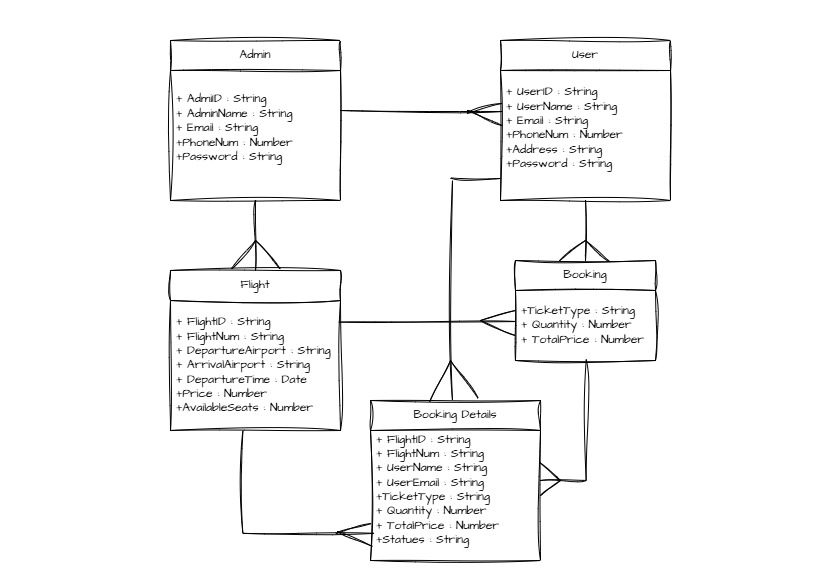
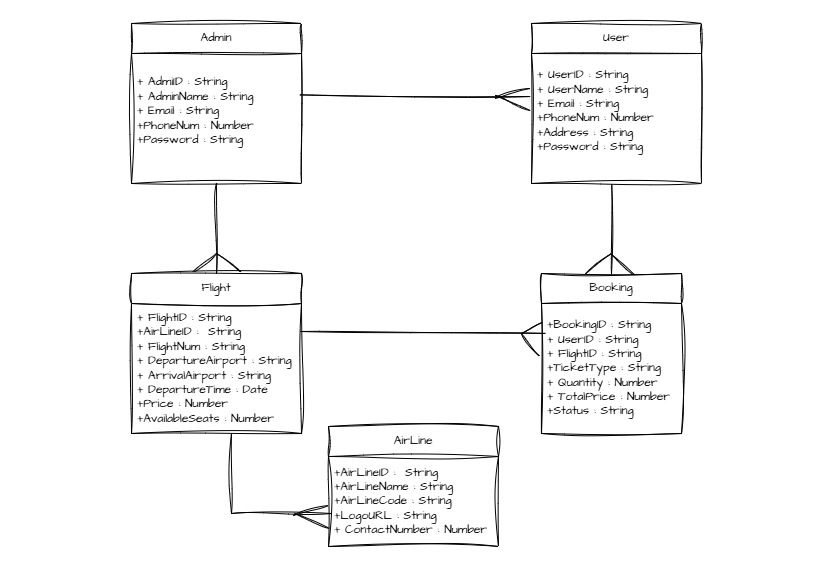
Update ER and README

Changed region(s): [[0.1511, 0.0309, 0.8464, 0.988], [0.8464, 0.0617, 0.8767, 0.0926], [0.5441, 0.3705, 0.5744, 0.4014]]

diff --git a/README.md b/README.md
@@ -70,4 +70,4 @@
 ### ***Credits***
 
 ##### - [Lucidchart](https://lucid.app/) - Used for creating the Hierarchy Diagram.
-
+##### - [Drawio](https://www.drawio.com/) - Used for creating the ER Diagram.